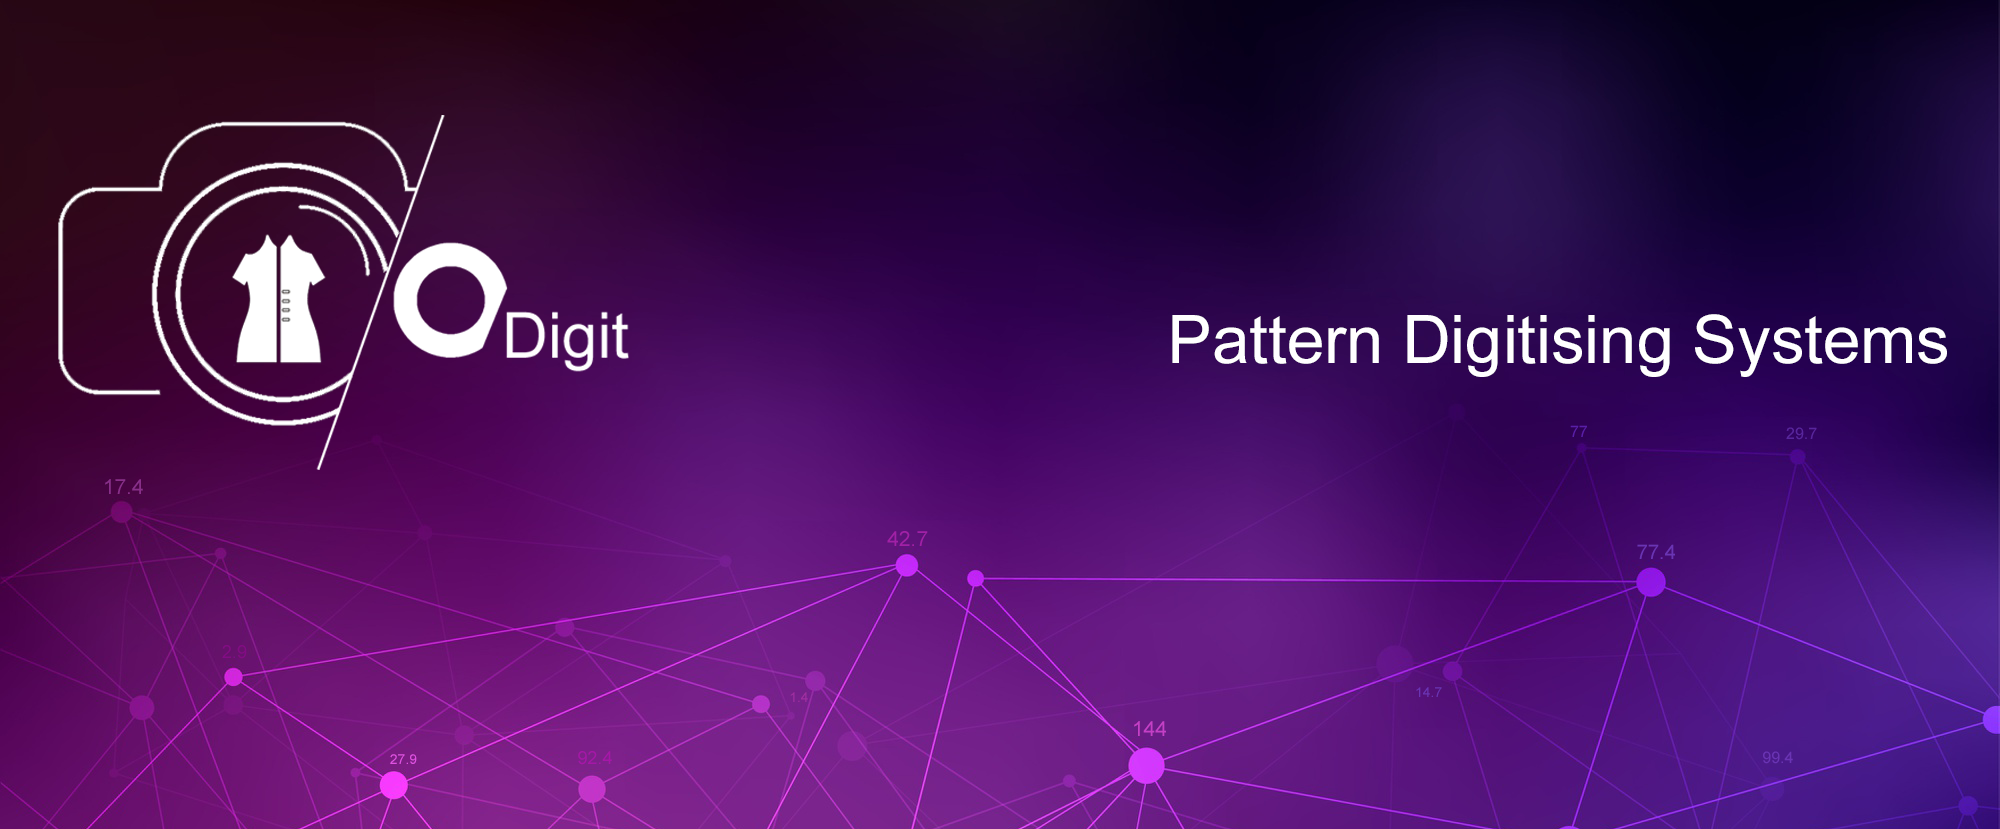
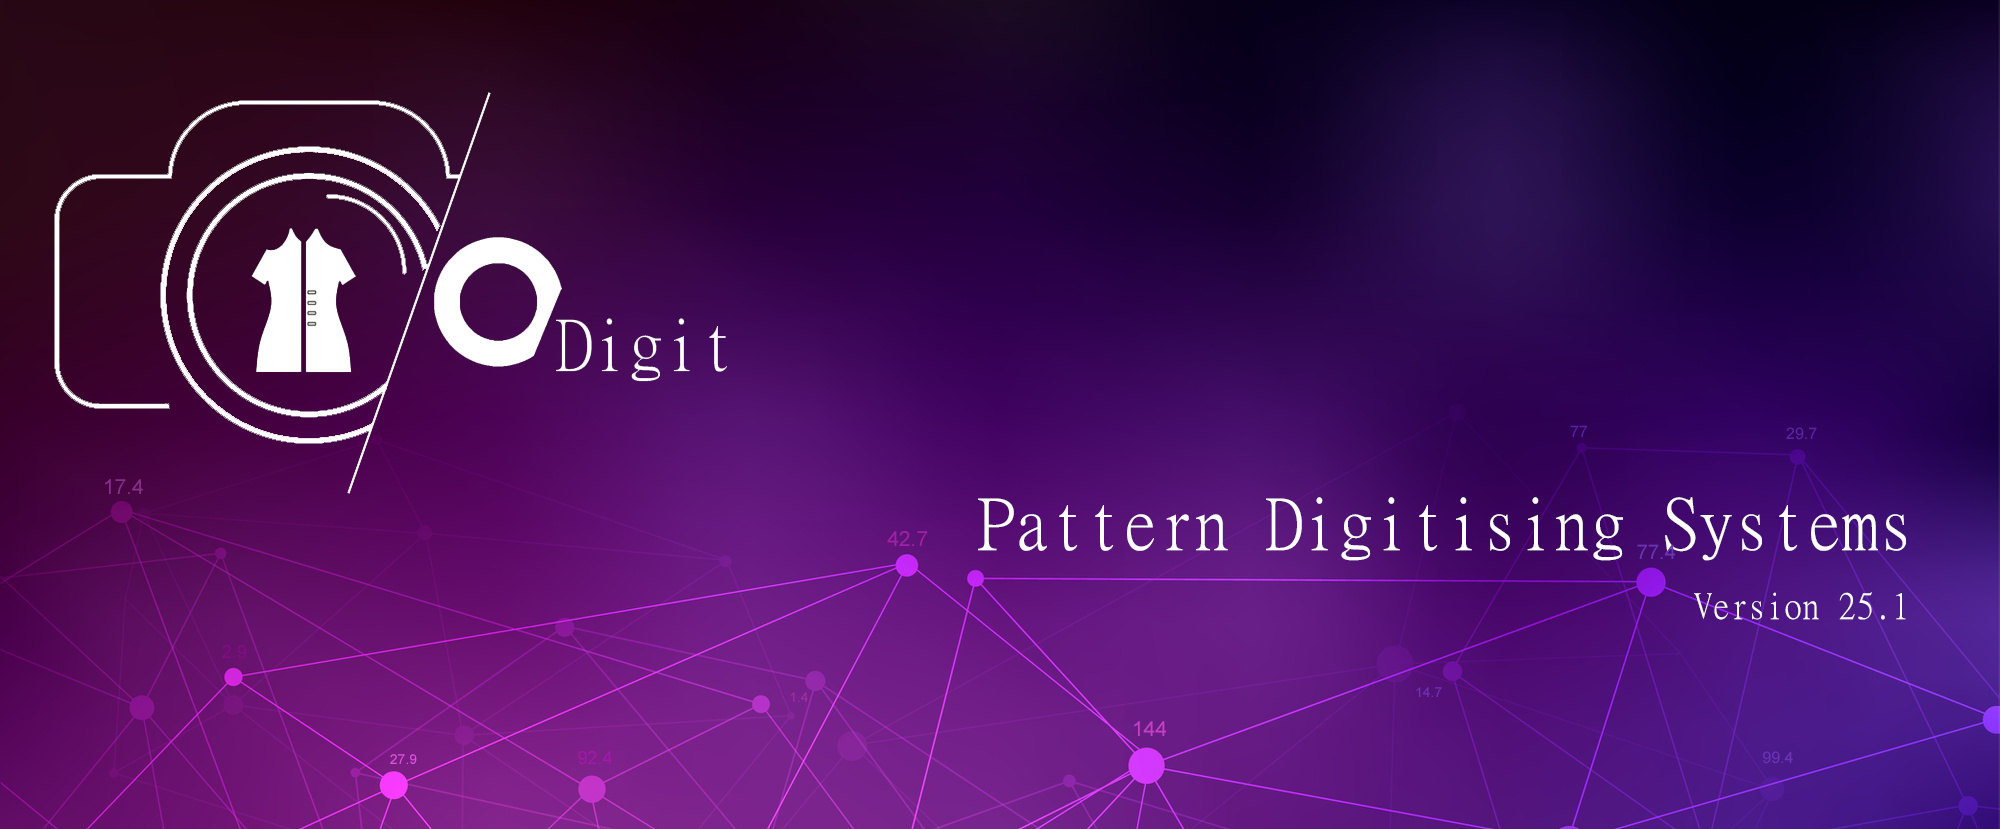
Changed buttons from Controls 1 to Controls 2

diff --git a/src/core/gui/qml/templates/toolbar/side.qml b/src/core/gui/qml/templates/toolbar/side.qml
@@ -1,5 +1,6 @@
 import QtQuick 2.15
 import QtQuick.Layouts 1.15
+import QtQuick.Controls 2.15
 import QtQuick.Dialogs 1.3
 
 import "qrc:Components/Controls" as Components_Controls
@@ -30,12 +31,13 @@ ColumnLayout {
         Layout.fillWidth: true
         Layout.preferredHeight: width
 
-        icon.source: 'qrc:Assets/Images/Icons/cursor'
-        icon.parent.height: width
-        icon.parent.anchors.margins: 6
+        icn.source: 'qrc:Assets/Images/Icons/cursor'
+        icn.parent.height: width
+        icn.parent.anchors.margins: 6
         hint.text: translator.global.tr('29aj')
 
         property bool enable: false
+        property bool selecting: false
 
         Component.onCompleted: {
             enable = true
@@ -85,6 +87,8 @@ ColumnLayout {
                                     h: Math.abs(callback.e.y - callback.s.y)
                                 }
 
+                                toolSelect.selecting = callback.size.w > 0 && callback.size.h > 0
+
                                 ctx.strokeStyle = "#FF0000"
 
                                 ctx.lineWidth = 2
@@ -102,6 +106,8 @@ ColumnLayout {
                         )
                     }
                 } else {
+                    //toolSelect.selecting = false
+
                     if (callback.active) {
                         callback.active = false
 
@@ -154,9 +160,9 @@ ColumnLayout {
         Layout.fillWidth: true
         Layout.preferredHeight: width
 
-        icon.source: 'qrc:Assets/Images/Icons/home'
-        icon.parent.height: width
-        icon.parent.anchors.margins: 6
+        icn.source: 'qrc:Assets/Images/Icons/home'
+        icn.parent.height: width
+        icn.parent.anchors.margins: 6
         hint.text: translator.global.tr('4jdn')
 
         onClicked: {
@@ -170,9 +176,9 @@ ColumnLayout {
         Layout.fillWidth: true
         Layout.preferredHeight: width
 
-        icon.source: 'qrc:Assets/Images/Icons/zoom-in'
-        icon.parent.height: width
-        icon.parent.anchors.margins: 6
+        icn.source: 'qrc:Assets/Images/Icons/zoom-in'
+        icn.parent.height: width
+        icn.parent.anchors.margins: 6
         hint.text: translator.global.tr('Oi20')
 
         onClicked: {
@@ -187,9 +193,9 @@ ColumnLayout {
         Layout.fillWidth: true
         Layout.preferredHeight: width
 
-        icon.source: 'qrc:Assets/Images/Icons/zoom-out'
-        icon.parent.height: width
-        icon.parent.anchors.margins: 6
+        icn.source: 'qrc:Assets/Images/Icons/zoom-out'
+        icn.parent.height: width
+        icn.parent.anchors.margins: 6
         hint.text: translator.global.tr('Oi21')
 
         onClicked: {
@@ -205,9 +211,9 @@ ColumnLayout {
         Layout.fillWidth: true
         Layout.preferredHeight: width
 
-        icon.source: 'qrc:Assets/Images/Icons/point'
-        icon.parent.height: width
-        icon.parent.anchors.margins: 6
+        icn.source: 'qrc:Assets/Images/Icons/point'
+        icn.parent.height: width
+        icn.parent.anchors.margins: 6
         hint.text: translator.global.tr('Oi22')
 
         property bool enable: false
@@ -222,11 +228,17 @@ ColumnLayout {
             }
         }
 
+        onEnableChanged: {
+            if (enabled) {
+            } else {
+            }
+        }
+
         function callback(key, active) {
             if (!toolPoint.enable)
                 return
 
-            if (key === Qt.LeftButton && active && !window.currentProcess.editor.status['selected']) {
+            if (key === Qt.LeftButton && !active && !window.currentProcess.editor.status['selected'] && !toolSelect.selecting) {
                 const x = (window.currentProcess.editor.input.mouseX - window.currentProcess.editor.pan.x) / window.currentProcess.editor.zoom
                 const y = (window.currentProcess.editor.input.mouseY - window.currentProcess.editor.pan.y) / window.currentProcess.editor.zoom
 
@@ -244,16 +256,17 @@ ColumnLayout {
         Layout.      fillWidth: true
         Layout.preferredHeight: width
 
-        icon.source: 'qrc:Assets/Images/Icons/line'
-        icon.parent.height: width
-        icon.parent.anchors.margins: 6
+        icn.source: 'qrc:Assets/Images/Icons/line'
+        icn.parent.height: width
+        icn.parent.anchors.margins: 6
         hint.text: translator.global.tr('Oi23')
 
         property bool enable: false
 
         onClicked: {
             if (!enable) {
-                resetAll(true)
+                resetAll()
+                toolSelect.enable = false
                 enable = true
             }
         }
@@ -321,15 +334,16 @@ ColumnLayout {
         Layout.fillWidth: true
         Layout.preferredHeight: width
 
-        icon.source: 'qrc:Assets/Images/Icons/measure'
-        icon.parent.height: width
-        icon.parent.anchors.margins: 6
+        icn.source: 'qrc:Assets/Images/Icons/measure'
+        icn.parent.height: width
+        icn.parent.anchors.margins: 6
         hint.text: translator.global.tr('Oi24')
 
         property bool enable: false
 
         onClicked: {
             resetAll()
+            toolSelect.enable = false
             enable = true
         }
 
@@ -463,9 +477,9 @@ ColumnLayout {
         Layout.fillWidth: true
         Layout.preferredHeight: width
 
-        icon.source: 'qrc:Assets/Images/Icons/text'
-        icon.parent.height: width
-        icon.parent.anchors.margins: 6
+        icn.source: 'qrc:Assets/Images/Icons/text'
+        icn.parent.height: width
+        icn.parent.anchors.margins: 6
         hint.text: translator.global.tr('Oi25')
 
         property bool enable: false

diff --git a/src/core/gui/qml/templates/toolbar/home.qml b/src/core/gui/qml/templates/toolbar/home.qml
@@ -42,8 +42,8 @@ RowLayout {
                 Layout.preferredWidth: 75
 
                 title. text: translator.global.tr('M9sY')
-                icon.source: 'qrc:Assets/Images/Icons/open-file'
-                icon.parent.height: 40
+                icn.source: 'qrc:Assets/Images/Icons/open-file'
+                icn.parent.height: 40
 
                 onClicked: {
                     window.currentProcess.step_path()
@@ -63,8 +63,8 @@ RowLayout {
                 Layout.preferredWidth: 55
 
                 title. text: translator.global.tr('N2cU')
-                icon.source: 'qrc:Assets/Images/Icons/save-file'
-                icon.parent.height: 40
+                icn.source: 'qrc:Assets/Images/Icons/save-file'
+                icn.parent.height: 40
             }
         }
 
@@ -103,8 +103,8 @@ RowLayout {
                 Layout.preferredWidth: 75
 
                 title. text: translator.global.tr('H6eV')
-                icon.source: 'qrc:Assets/Images/Icons/render'
-                icon.parent.height: 40
+                icn.source: 'qrc:Assets/Images/Icons/render'
+                icn.parent.height: 40
 
                 onClicked: {
                     window.currentProcess.step_process()
@@ -142,8 +142,8 @@ RowLayout {
                 Layout.preferredWidth: 75
 
                 title. text: translator.global.tr('DSe1')
-                icon.source: 'qrc:Assets/Images/Icons/compress'
-                icon.parent.height: 40
+                icn.source: 'qrc:Assets/Images/Icons/compress'
+                icn.parent.height: 40
 
                 onClicked: {
                     simplifyDialog.a.text  = window.currentProcess.config.value('scanner/simplify/default_threshold_a')
@@ -160,8 +160,8 @@ RowLayout {
                 Layout.preferredWidth: 65
 
                 title. text: translator.global.tr('D5hY')
-                icon.source: 'qrc:Assets/Images/Icons/dxf'
-                icon.parent.height: 40
+                icn.source: 'qrc:Assets/Images/Icons/dxf'
+                icn.parent.height: 40
 
                 onClicked: {
                     window.currentProcess.step_export_dxf()
@@ -202,8 +202,8 @@ RowLayout {
                 Layout.preferredWidth: 65
 
                 title. text: translator.global.tr('Q8kB')
-                icon.source: 'qrc:Assets/Images/Icons/setting'
-                icon.parent.height: 40
+                icn.source: 'qrc:Assets/Images/Icons/setting'
+                icn.parent.height: 40
 
                 onClicked: {
                     settings.show()
@@ -215,8 +215,8 @@ RowLayout {
                 Layout.preferredWidth: 55
 
                  title.text: translator.global.tr('T2lC')
-                icon.source: 'qrc:Assets/Images/Icons/about'
-                icon.parent.height: 40
+                icn.source: 'qrc:Assets/Images/Icons/about'
+                icn.parent.height: 40
 
                 onClicked: {
                     about.show()

diff --git a/src/core/gui/qml/controls/button.qml b/src/core/gui/qml/controls/button.qml
@@ -3,14 +3,35 @@ import QtQuick.Controls 1.2 as ControlsV1
 import QtQuick.Controls 2.15
 import QtQuick.Layouts 1.15
 
-ControlsV1.Button {
+Button {
   id: root
 
   implicitHeight: 34
 
-  readonly property alias icon : icon
+  readonly property alias icn: icon
   readonly property alias title: title
   readonly property alias hint : hint
+
+  background: Rectangle {
+    id: background
+
+    property string bg: ""
+    property string bd: ""
+
+    radius: 3
+
+    border {
+      color: bd ? bd : "#ababab"
+      width: 1
+    }
+
+    color: bg ? bg : (root.hovered ? "#c4c4c4" : "#efefef")
+
+    gradient: Gradient {
+      GradientStop { position: 0.0; color: Qt.lighter(background.color, 1.2) }
+      GradientStop { position: 1.0; color: background.color }
+    }
+  }
 
   ColumnLayout {
     anchors.fill: parent